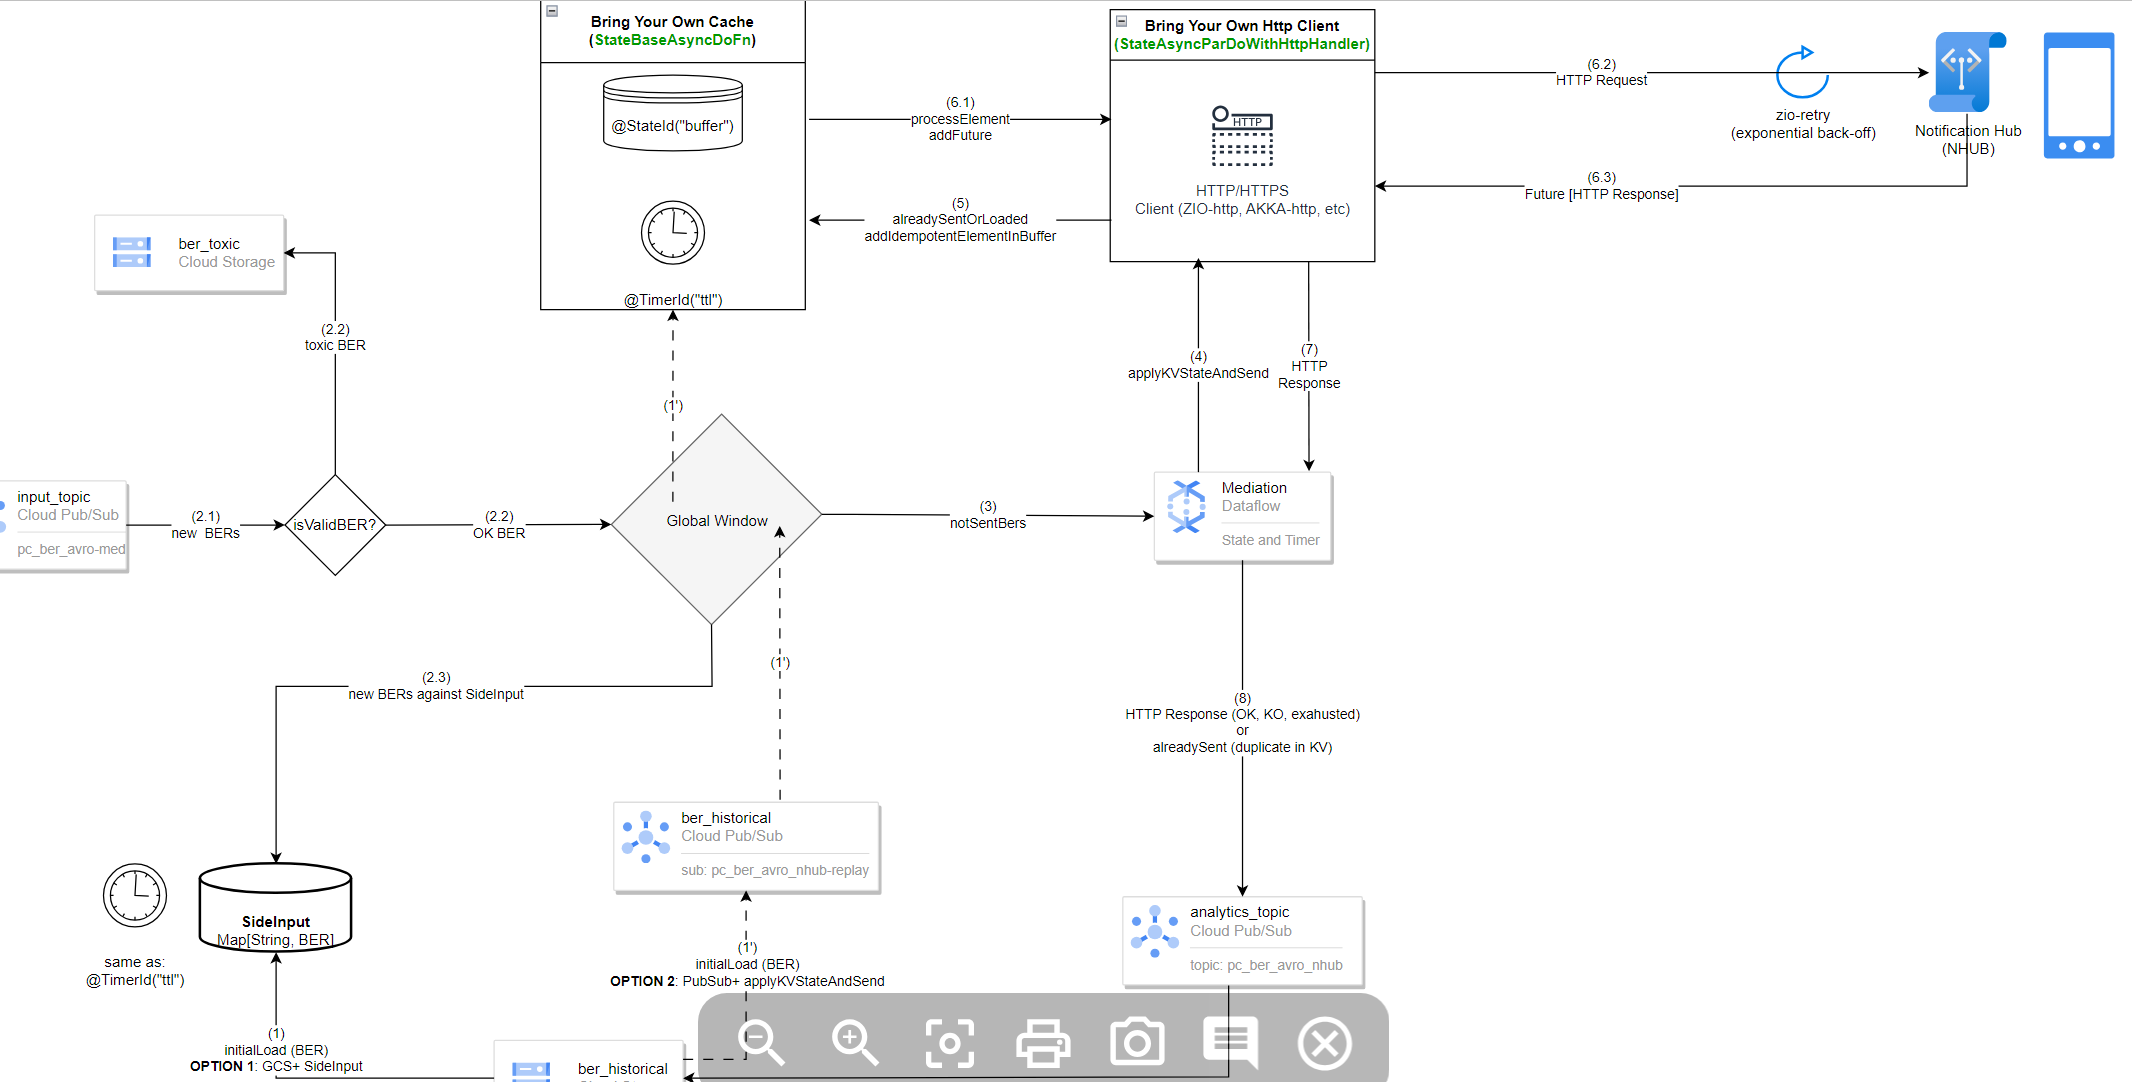
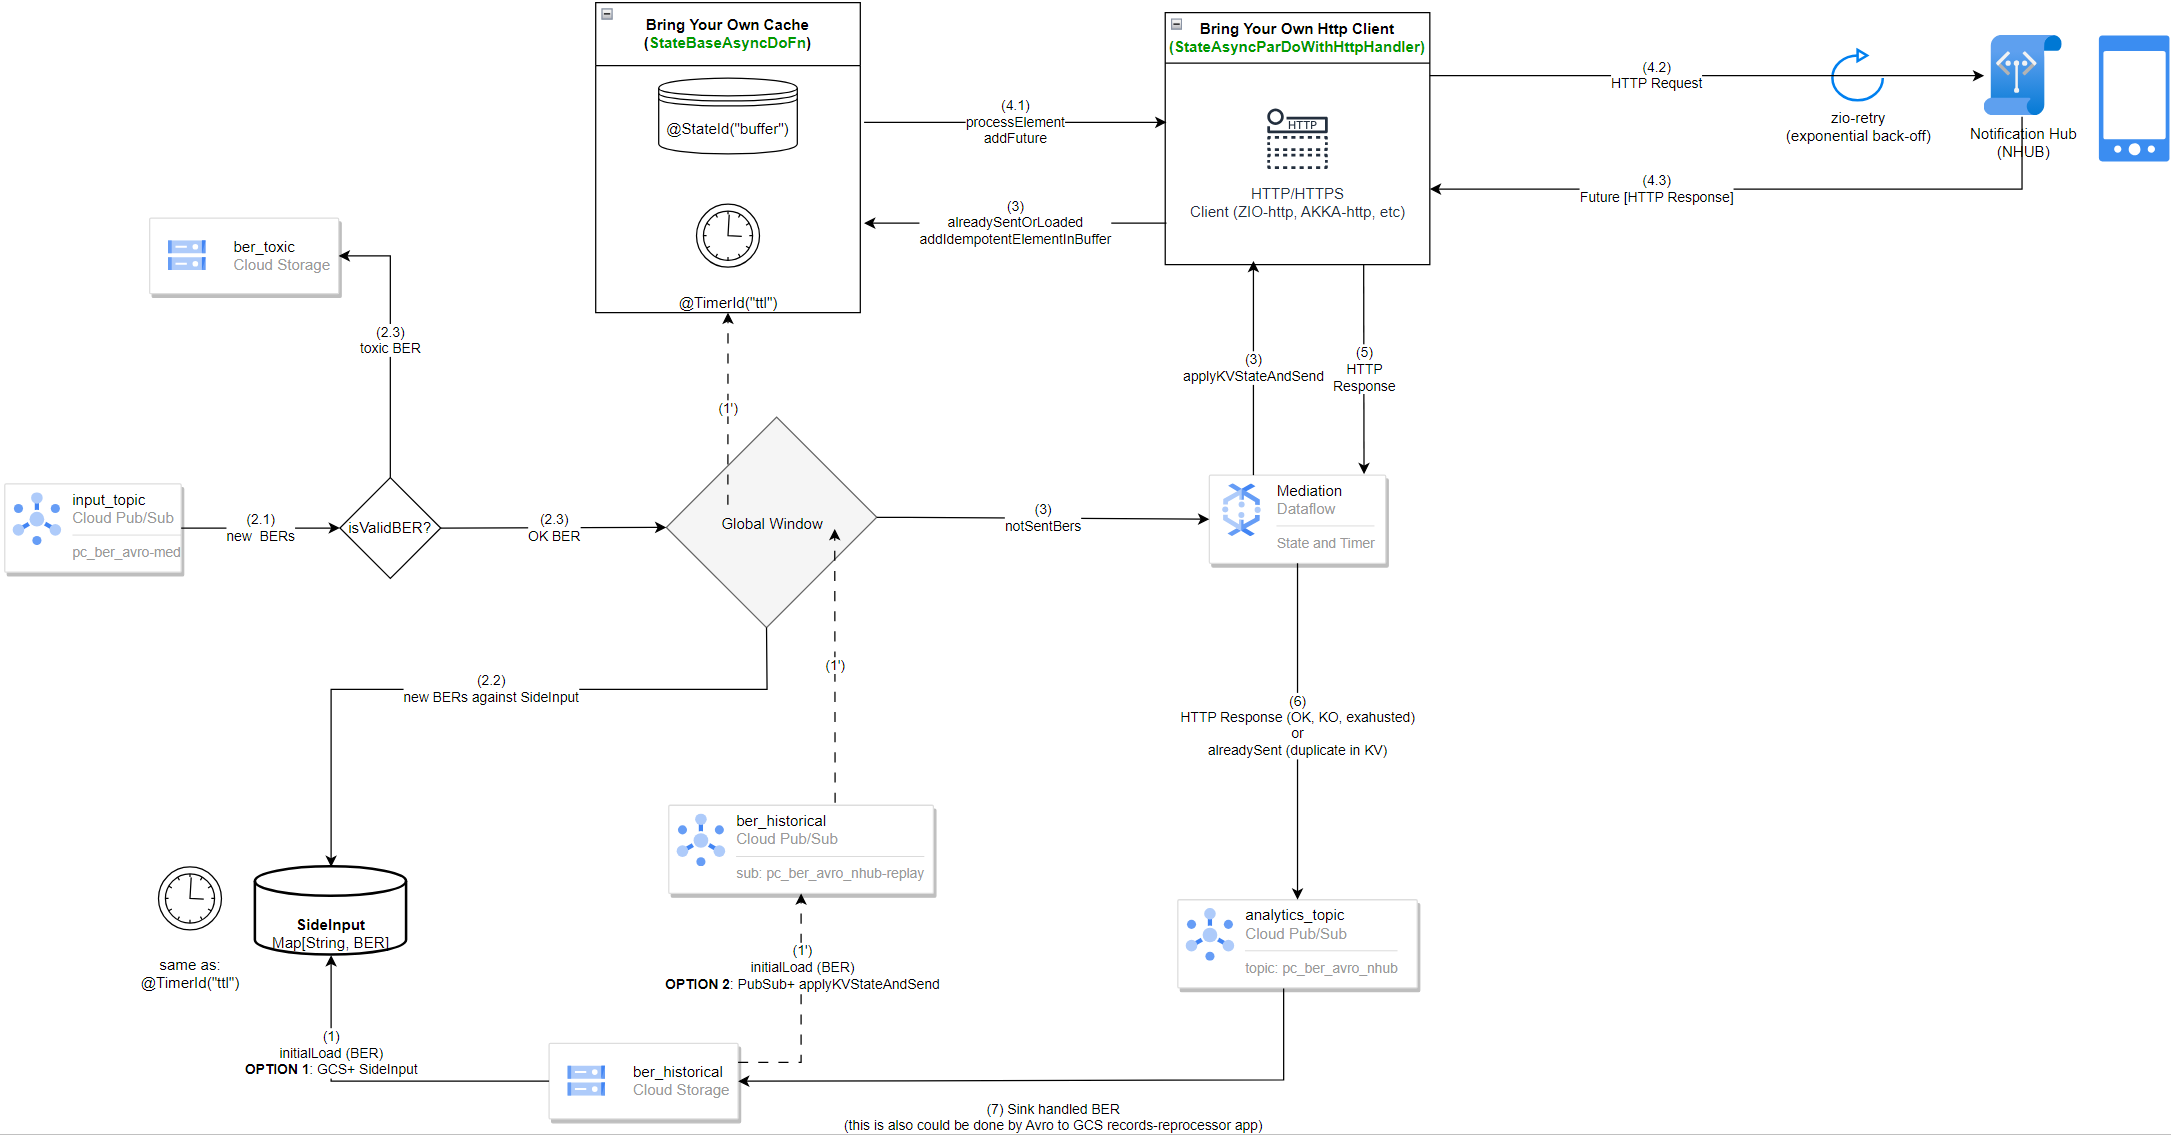
[mediation] README.md improvements for Medium Post 8/X. new matching between flow STEPS and diagaram

diff --git a/src/main/scala/com.db.myproject/mediation/http/state/StateBaseAsyncDoFn.java b/src/main/scala/com.db.myproject/mediation/http/state/StateBaseAsyncDoFn.java
@@ -60,8 +60,10 @@ public abstract class StateBaseAsyncDoFn<InputT, OutputT, ResourceT, FutureT>
                 new RuntimeException("Failed to process futures", e);
             }
         }
+        // STEP 4.3)
         flush(context);
     }
+
 
     @ProcessElement
     public void processElement(
@@ -80,6 +82,7 @@ public abstract class StateBaseAsyncDoFn<InputT, OutputT, ResourceT, FutureT>
                 final UUID uuid = UUID.randomUUID();
                 addIdempotentElementInBuffer(buffer, element);// abstract, WATCH OUT: potential race conditions
                 final FutureT future = processElement(element);
+                // STEP 4.1)
                 futures.put(uuid, handleOutput(future, element, buffer, uuid, timestamp, window));
             } catch (Exception e) {
                 LOG.error("Failed to process element", e);

diff --git a/src/main/scala/com.db.myproject/mediation/README.md b/src/main/scala/com.db.myproject/mediation/README.md
@@ -35,8 +35,7 @@ internally...¿?
 
 Internally you can easily face issues, out of memory headaches and keeping the state in
 distributed nodes can be challenging. Vertical scalability is actually available in DataFlow Prime, but let's explore
-other
-options.
+other options.
 
 Externally you have some databases widely used in the distributed world like Cassandra, HBase (BigTable), Cache (Redis,
 Memorystore), In Memory Data Grid (IMDG Hazelcast),
@@ -67,7 +66,8 @@ If you want to figure some of these questions out, this is your place.
   https client for reaching an endpoint (e.g: https://jsonplaceholder.typicode.com/guide/) sending _MyEventRecord_,
   also known as _BusinessEventRecord_ (BER, if
   you come across this acronym, sorry, this is an open source adaptation of a productive DataFlow application)
-- applying State (as idempotent_key in BagState) and Timer, avoiding duplicates with same idempotent_key as long as the
+- applying State (as _idempotent_key_ in BagState) and Timer, avoiding duplicates with same _idempotent_key_ as long as
+  the
   Timer is not flushed (acting as TTL).
 
 ## Modelling
@@ -75,31 +75,54 @@ If you want to figure some of these questions out, this is your place.
 1. Using Avro (as new/historical
    notifications): [MyEventRecord](avro/MyEventRecord.java)
 2. HTTPResponse and HTTPRequest: [notification.model](notification/model)
+3. _idempotent_key_: [MyEventRecordUtils](avro/MyEventRecordUtils.scala)
 
+```
+  def getIdempotentNotificationKey(record: MyEventRecord) = s"${record.getEvent.getTransactionId}-${record.getCustomer.getId}"
+```
 
 ## Flow
 
 This diagram represents the ingestion and processing flow of the BER notifications, from ingestion to delivery the HTTP
 endpoint through its state management within the S & T:
 ![mediation_design.png](../../../../../docs/mediation/mediation_design.png)
-1. Reading **historical_notifications** from Google Cloud Storage (GCS)
-2. Reading **new_notifications** from PubSub
-3. Treating **historical_notifications**, _SideInput approach is taken_ (as long as TTL is applied) for discarding
-   duplicates from **new_notifications**
-   against **historical_notifications**.
 
-> NOTE: A unionAll with Bounded "historical" (GCS) and Unbounded "fresh" (PubSub), has been discarded, as it stalls the
+1. Reading **historical_notifications** from Google Cloud Storage (GCS) as OPTION 1. OPTION 2, from PubSub, alternative
+   one (to be implemented)
+2. Ingestion and pre S & T Flow. Notifications (BERs) are Globally windowed and keyed by _idempotent_key_
+    - 2.1: Reading **new_notifications** from PubSub
+    - 2.2: Treating **historical_notifications**, _SideInput approach is taken_ (as long as TTL is applied) for
+      discarding duplicates from **new_notifications** against **historical_notifications**.
+    - 2.3: KO inValidBers as toxic in GCS
+
+> NOTE 1: make sure you can fit in all **historical_notifications** from GCS as SideInput in your workers, allocating
+> enough memory
+
+> NOTE 2: A unionAll with Bounded "historical" (GCS) and Unbounded "fresh" (PubSub), has been discarded, as it stalls
+> the
 > process (only first
 > emitted Pane from PubSub is emitted) despite GroupByKey
 (GBK) when applying state (for State And Timer), and using GlobalWindow (other Triggers were included but only first
-> Pane Pubsub records were shown). A potential option might be reloading **historical_notifications** into PubSub and
-> loading into the State and Timer, thus, all new notifications and historical will be unbounded.
+> Pane Pubsub records were shown). As mentioned in point 1), potential OPTION 2, might be useful when reloading
+**historical_notifications** into PubSub and
+> then loading them into the State and Timer, thus, all new notifications and historical will be wrapped seemingly as
+> "unbounded", applying S & T for **historical_notifications**.
 
-4. KO inValidBers as toxic in GCS
-5. Saving attempted BERs (new_notifications) in KV as State and release them when Timer expires (TTL): avoiding
-   duplicates (race conditions
-   are mitigated as distinctByKey is previously applied). Then, **new_notifications** are sent through your HTTP client.
-6. Saving NOTIFICATION_RESPONSE in PubSub (e.g: for analytics as external table, as **historical_notifications**)
+3. applyKVState to Flush Futures. Saving attempted notifications BERs (new_notifications) in KV as State and release
+   them when Timer expires (TTL):
+   avoiding duplicates (
+   race conditions are mitigated as distinctByKey is previously applied)
+4. checks if they have been already processed and keeps state by idempotent key, add Future
+    - 4.1: processElement (ParDo) in _StateBaseAsyncDoFn_.
+    - 4.2: _StateAsyncParDoWithHttpHandler_: sending HTTP request.
+    - 4.3: flush() in _StateBaseAsyncDoFn_: Future [Http Response] is asynchronous and _StateBaseAsyncDoFn_ will deal
+      with it (outputting to
+      main routine)
+5. output HTTP Response is emitted in the main routine
+6. now you can save your HTTP Response/NOTIFICATION_RESPONSE along with the "sent" **new_notification** in PubSub (e.g:
+   sinking in GCS eventually, useful for analytics as external table
+   besides the historical load as
+   *historical_notifications* if mediation-service is restarted)
 
 ## Implementation
 ### StateBaseAsyncDoFn
@@ -220,7 +243,7 @@ that, we can avoid Dead Letter Queuing or Retry topic patterns. Retry is achieve
 
 ## StressTests
 
-Some "Stress testing" has been undertaken with Mock data sets (with different idempotent_key), peaking more than +200K
+Some "Stress testing" has been undertaken with Mock data sets (with different _idempotent_key_), peaking more than +200K
 notifications / min with the current AkkaHttpClient config, forcing the application to scale up and keeping some million
 of
 notifications saved as "ttl" State:
